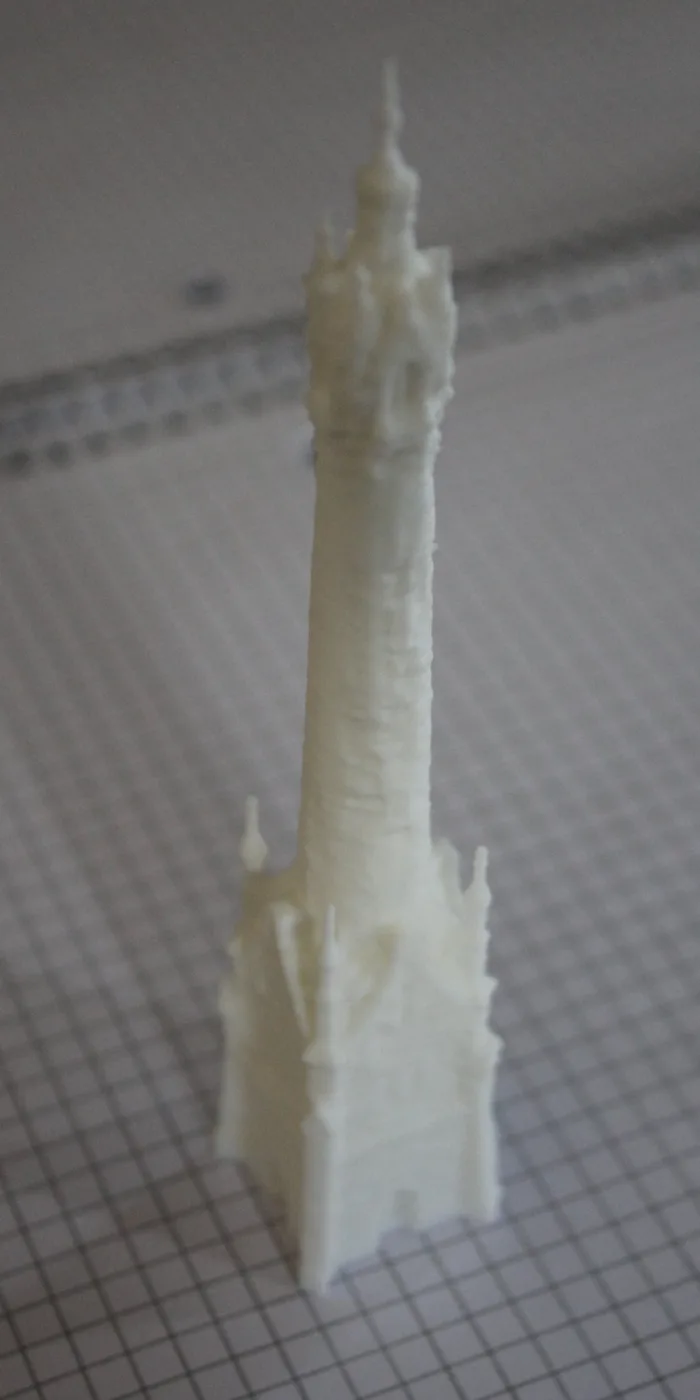
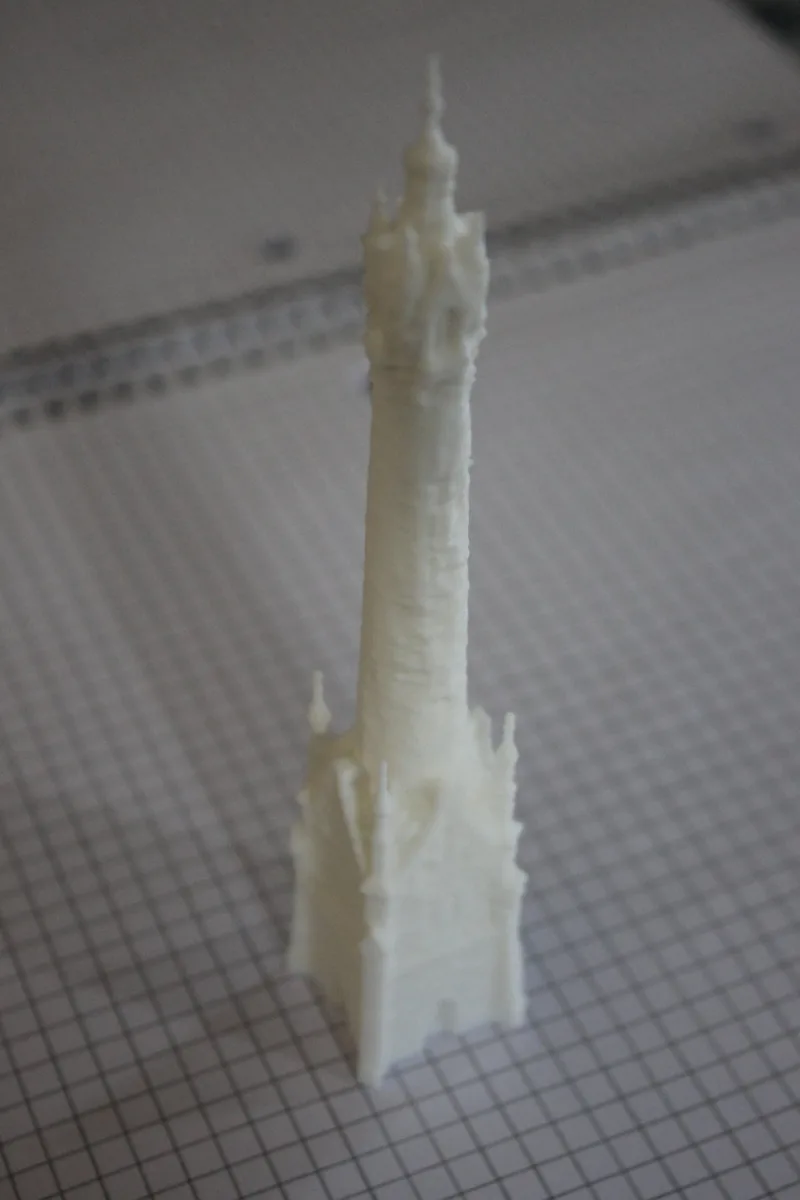
North Point: recrop print photo so the spire shows
Claude-Session: https://claude.ai/code/session_01WmAumBYe7Utx4DMhViMJJk

diff --git a/north-point.html b/north-point.html
@@ -300,7 +300,7 @@ footer .wrap { display: flex; flex-wrap: wrap; gap: 1.5rem 3rem; justify-content
             <figcaption>Sliced: 1,149 layers at 0.12 mm, with a brim to hold the narrow base down.</figcaption>
           </figure>
           <figure class="print-fig">
-            <img src="media/north-point/tower-print.webp" width="700" height="1400" loading="lazy" alt="A white 3D print of the North Point Water Tower standing on a gridded cutting mat: a square Gothic base with corner pinnacles, a tall tapering shaft, and a lantern topped by a spire.">
+            <img src="media/north-point/tower-print.webp" width="800" height="1200" loading="lazy" alt="A white 3D print of the North Point Water Tower standing on a gridded cutting mat: a square Gothic base with corner pinnacles, a tall tapering shaft, and a lantern topped by a spire.">
             <figcaption>Printed: 138 mm tall in PLA.</figcaption>
           </figure>
         </div>
